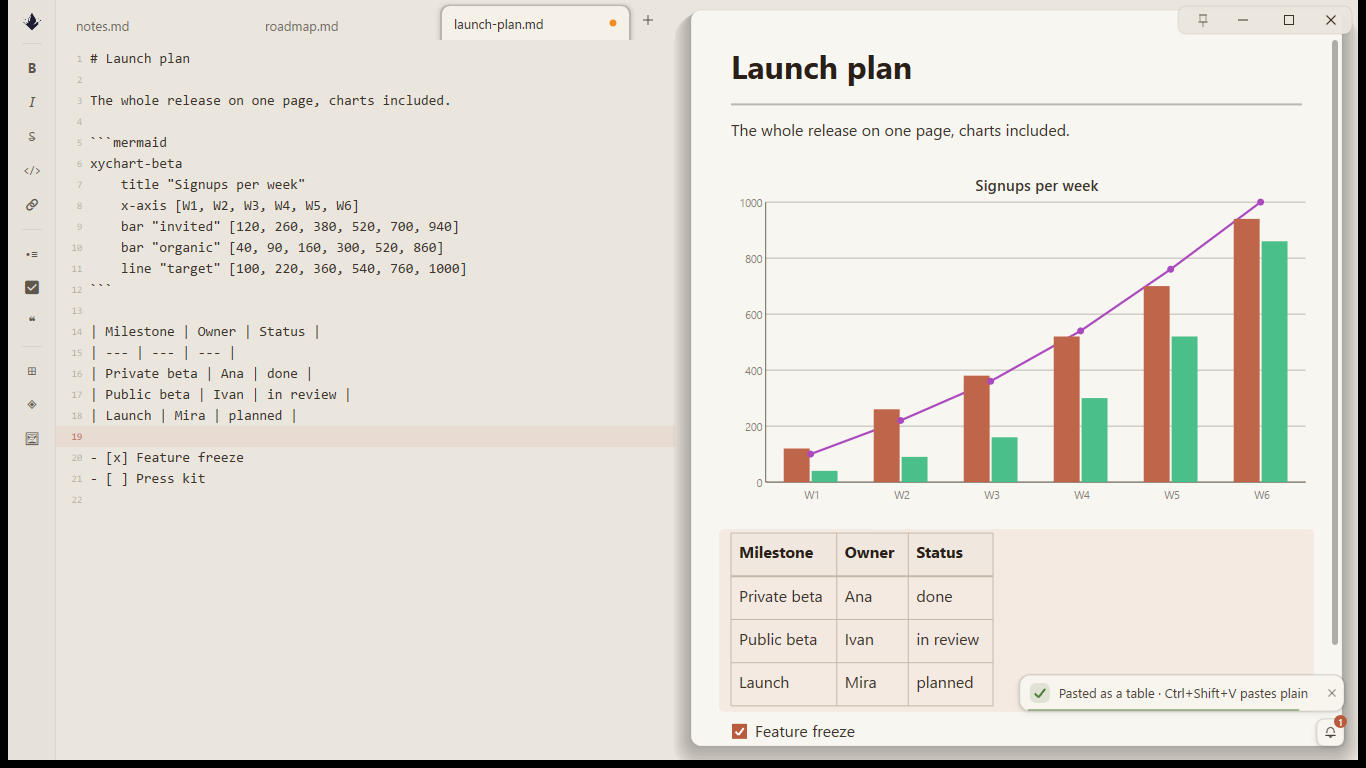
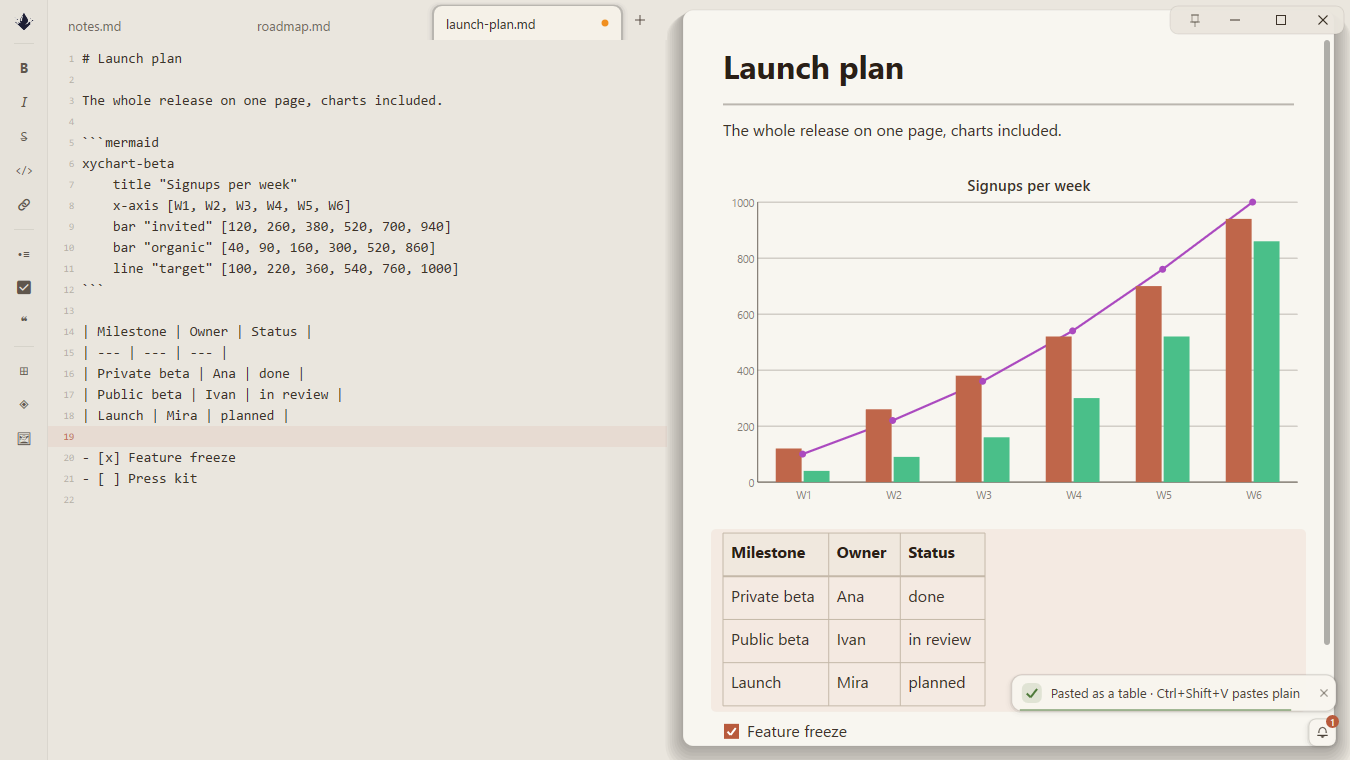
Crop window frame borders off the hero screenshots

diff --git a/index.html b/index.html
@@ -173,8 +173,8 @@ section{padding:70px 0;border-top:1px solid var(--line)}
     </div>
   </div>
   <div class="shots">
-    <img class="main" src="img/screenshots/showcase-light.png" alt="Tinta's editor in the Paper light theme: tabs, a native xy chart, an Excel range pasted as a markdown table, and a notification chip" width="1366" height="768">
-    <img class="over" src="img/screenshots/showcase-dark.png" alt="Tinta's editor in the Midnight dark theme: tabs, a native xy chart and a milestone table" loading="lazy" width="1366" height="768">
+    <img class="main" src="img/screenshots/showcase-light.png" alt="Tinta's editor in the Paper light theme: tabs, a native xy chart, an Excel range pasted as a markdown table, and a notification chip" width="1350" height="760">
+    <img class="over" src="img/screenshots/showcase-dark.png" alt="Tinta's editor in the Midnight dark theme: tabs, a native xy chart and a milestone table" loading="lazy" width="1350" height="760">
     <img class="seal" src="img/logo.png" alt="" aria-hidden="true">
   </div>
 </div>
